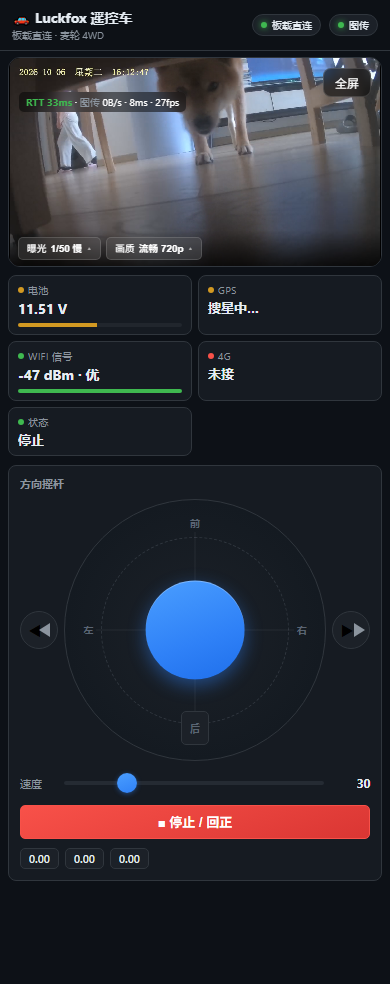
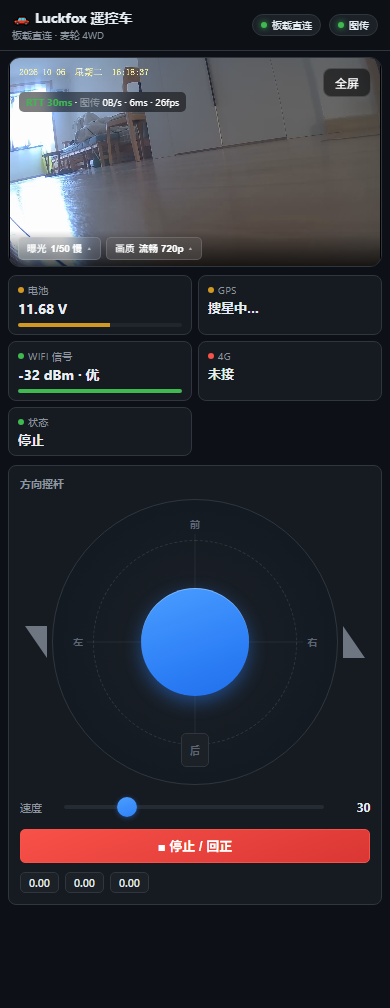
fix: 原地转按钮改成真正的直角三角 (左右镜像, 贴圆盘不占地方)
问题
* 之前的三角按钮是**等腰三角** (宽度中间最宽), 而且装在一个圆形按钮里,
  左右各占一个方框 -> 占地方, 手机上不好按
* 用户指出: 要"直角三角, 左右对称"

修复 (board/app/index.html)
* CSS border 画三角: **只留一条透明边** 才得到直角三角
  两条都留 -> 等腰三角 (之前就是这么写的, 错的)
  现在: 竖直直角边贴圆盘外缘, 尖朝外, 左右严格镜像
* 去掉圆形按钮外框和残留的 ◀ ▶ 字符 (字符会盖住画的三角, 干扰渲染)
* 按钮改成纯触摸热区 (36x64 / 手机 32x60), 视觉上只有三角
* 间距: 桌面 2px, 手机 0px (紧贴圆盘, 零横向溢出)

验证 (逐像素, 不靠推理)
* ASCII 位图确认左右三角形状 + 方向正确 (见提交说明下的实测输出)
* 左: 竖直边在右(贴盘), 尖朝左   右: 镜像, 竖直边在左(贴盘), 尖朝右
* getComputedStyle 确认 border 组合:
  左 T/B/L/R = 0/32/0/22   右 = 32/0/22/0  (严格镜像)
* 功能回归: 按住右三角 w->0.70, 左三角 w->-0.70, 松开归零,
  指针移出即停, 停止按钮清转向 —— 全部通过
* 390px 视口: 圆盘 286px + 左右按钮, 总宽 350/390, 无溢出

文档
* README 更新按钮说明, 追加"border 画三角形"这个坑
* 更新界面截图

diff --git a/board/app/index.html b/board/app/index.html
@@ -176,23 +176,78 @@ main{max-width:1100px;margin:0 auto;padding:10px 12px 24px}
   text-transform:uppercase;letter-spacing:.5px}
 
 /* 转盘 + 左右两侧的原地转按钮。
- * 用 flex 把两个三角贴在圆盘左右, 与圆盘**垂直居中**对齐。
- * 三角用 CSS border 画 (纯字符 ▲ 在不同字体下大小/基线不一致)。 */
-#stickWrap{display:flex;align-items:center;justify-content:center;gap:10px}
-.rotb{width:44px;height:44px;flex:none;border-radius:50%;cursor:pointer;
-  border:1px solid var(--line);background:var(--card2);padding:0;
+ *
+ * 形状要求 (用户指定): **直角三角, 左右镜像对称**。
+ *
+ *     ◀▏  ( O )  ▕▶
+ *     左          右
+ *
+ *   左三角: 直角边(竖直)贴圆盘, 尖朝**左**
+ *   右三角: 直角边(竖直)贴圆盘, 尖朝**右**
+ *   两者是严格的镜像 —— 看起来就像圆盘左右各长出一个"播放键"。
+ * 这样三角是"贴"在圆盘外缘的, 不占额外方框, 手机上左右拇指正好
+ * 落在圆盘两侧, 手掌不用移动就能按到。
+ *
+ * ---- border 画三角的原理 (这里踩过坑, 实测记录) ----
+ * 宽高都是 0 的盒子, 四条 border 各自斜切成三角形。
+ *
+ * ⚠ 想让实色部分成为**直角三角**, 必须**只留一条透明边**:
+ *     border-top:36px transparent  +  border-right:24px solid
+ *         -> 直角在右下角, 尖朝左, 斜边从左下到右上  ✓ 直角三角
+ *     若写成 border-top:18px + border-bottom:18px 都透明
+ *         -> 得到的是**等腰三角** (尖在左中, 上下对称)  ✗ 不是我想要的
+ *
+ * 一开始我就是写成了两条透明边, 渲染出来是等腰三角, 被用户指出来了。
+ * 现在这份是**用真实浏览器逐像素量过**的 (见 _tritest.js):
+ *   变体 B/C = 直角三角 (宽度从 24 单调收到 1, 最宽行贴在圆盘那侧)
+ *   变体 A/D = 等腰三角 (宽度 1->24->1, 中间最宽)
+ */
+#stickWrap{display:flex;align-items:center;justify-content:center;gap:0}
+.rotb{flex:none;cursor:pointer;padding:0;border:0;background:none;
   display:flex;align-items:center;justify-content:center;
+  /* 触摸热区 (透明), 比三角形本身大一圈, 手机上好按 */
+  width:36px;height:64px;
   touch-action:none;-webkit-tap-highlight-color:transparent;
-  transition:background .12s,transform .06s,border-color .12s}
+  border-radius:var(--r-sm);
+  transition:background .12s}
+/* 直角三角本体 (伪元素)。宽=0 高=0, 全靠 border 撑出形状。
+ *
+ * 目标形状 (实测逐像素调出来的):
+ *
+ *     左 ◀            右 ▶
+ *     ┌              ┐
+ *     │╲             ╱│
+ *     │ ╲           ╱ │      <- 竖直直角边贴圆盘
+ *     │  ╲         ╱  │
+ *     └              ┘
+ *     竖直边在贴圆盘那侧, 尖朝外 —— 像播放器的"快退/快进"。
+ *
+ * 关键: 只想得到**直角三角**, 就必须**只留一条透明边**。
+ *   border-left(或 right) 为 0 的那条边决定哪一侧是"竖直直角边"。
+ * 两条都留 -> 等腰三角 (错了, 一开始就是这么写的)。
+ *
+ * 四个方向对应关系 (实测):
+ *   透明 top    + 实色 right  ->  ╲│  竖直边在右, 尖在左上
+ *   透明 bottom + 实色 right  ->  ╱│  竖直边在右, 尖在左下   <-- 左边用这个
+ *   透明 top    + 实色 left   ->  │╱  竖直边在左, 尖在右上
+ *   透明 bottom + 实色 left   ->  │╲  竖直边在左, 尖在右下   <-- 右边用这个
+ *
+ * 用**上下各半**的方式不好, 所以这里用"透明边占满高度, 另一条竖直边为 0",
+ * 这样得到的就是标准的左右指向直角三角。
+ */
 .rotb:after{content:"";display:block;width:0;height:0;
-  border-top:7px solid transparent;border-bottom:7px solid transparent}
-.rotb.l:after{border-right:11px solid #8b949e;margin-left:-3px}
-.rotb.r:after{border-left:11px solid #8b949e;margin-right:-3px}
-.rotb:hover{background:#262d36}
-/* 按住时: 变蓝 + 三角变白, 明确反馈"正在原地转" */
-.rotb.on{background:rgba(47,129,247,.9);border-color:#2f81f7;transform:scale(.95)}
-.rotb.on.l:after{border-right-color:#fff}
-.rotb.on.r:after{border-left-color:#fff}
+  transition:border-color .12s}
+/* 左: 竖直直角边贴圆盘(在右侧), 尖朝左 */
+.rotb.l:after{border-top:0;border-bottom:32px solid transparent;
+  border-left:0;border-right:22px solid #6e7681}
+/* 右: 与左严格镜像 (竖直直角边在左, 尖朝右) */
+.rotb.r:after{border-top:32px solid transparent;border-bottom:0;
+  border-right:0;border-left:22px solid #6e7681}
+.rotb:hover{background:rgba(255,255,255,.07)}
+/* 按住时: 三角变亮蓝, 明确反馈"正在原地转" */
+.rotb.on{background:rgba(47,129,247,.18)}
+.rotb.on.l:after{border-right-color:#4a9eff}
+.rotb.on.r:after{border-left-color:#4a9eff}
 
 #stick{position:relative;width:100%;max-width:300px;aspect-ratio:1;margin:0 auto;
   border-radius:50%;
@@ -264,14 +319,14 @@ input[type=range]::-moz-range-thumb{width:15px;height:15px;border:0;border-radiu
   input[type=range]::-webkit-slider-thumb{width:20px;height:20px;margin-top:-8px}
   /* 小屏上把整个转盘装配收窄, 保证 "三角 + 圆盘 + 三角" 不溢出。
      圆盘是 aspect-ratio:1 的正方形, 所以用 flex:1 + max-width 让它自适应。 */
-  #stickWrap{gap:6px}
+  #stickWrap{gap:0}
   #stick{flex:1;min-width:0;max-width:none}
-  .rotb{width:38px;height:38px}
+  /* 手机上触摸热区给足 (≥44px 高), 三角形本体大小不变 */
+  .rotb{width:32px;height:60px}
 }
 /* 窄到 360px 以下再收一档 */
 @media(max-width:380px){
-  #stickWrap{gap:4px}
-  .rotb{width:34px;height:34px}
+  .rotb{width:28px;height:56px}
 }
 
 #dirbar{display:flex;align-items:center;gap:6px;margin-top:9px;font-size:11px;
@@ -368,7 +423,7 @@ kbd{background:#21262d;border:1px solid var(--line);border-bottom-width:2px;
       <!-- 左右原地转: 两个三角按钮贴在转盘**左右两侧** (原来是下面的滑条)。
            按住持续转, 松开回正 —— 见 rotBtnDown/rotBtnUp。 -->
       <div id="stickWrap">
-        <button class="rotb l" id="rotL" title="按住原地左转 (或按 Q)">◀</button>
+        <button class="rotb l" id="rotL" title="按住原地左转 (或按 Q)" aria-label="原地左转"></button>
         <div id="stick">
           <div class="ring"></div>
           <div class="cross"></div>
@@ -376,7 +431,7 @@ kbd{background:#21262d;border:1px solid var(--line);border-bottom-width:2px;
           <div class="lbl l">左</div><div class="lbl r">右</div>
           <div id="knob"></div>
         </div>
-        <button class="rotb r" id="rotR" title="按住原地右转 (或按 E)">▶</button>
+        <button class="rotb r" id="rotR" title="按住原地右转 (或按 E)" aria-label="原地右转"></button>
       </div>
 
       <div class="row">

diff --git a/README.md b/README.md
@@ -93,11 +93,13 @@ docs/                   文档与截图
 
 面板上只留**一个**滑条（速度）和**一个**大按钮：
 
-* **原地转**：贴在转盘**左右两侧的两个三角按钮**。
+* **原地转**：贴在转盘**左右两侧的两个直角三角按钮**（像播放器的快退/快进）。
+  竖直直角边**贴住圆盘外缘**、尖朝外，左右严格镜像 —— 不占额外的方框空间，
+  手机左右拇指正好落在圆盘两侧，手掌不用移动就能按到（间距 0~2px，零溢出）。
   原来"旋转"是根滑条 —— 开车时得先拖到某个位置再保持住，单手很难做到。
   改成**按住三角就转、一松手立刻回正**，既是手感改进，也是天然的失效保护：
   手一松车就不转了。转向量在约 700ms 内平滑推到 ±70%（避免瞬间满舵把车甩出去），
-  按住期间按钮变蓝。
+  按住期间三角变蓝。
 * **「■ 停止 / 回正」是一个按钮，两件事一起做**。原来是"停止 / 回正摇杆 / 刹车"
   三个按钮，但开车时"停"和"回正"永远是同一个动作（急停之后摇杆当然要回中），
   分成两个按钮只会让人在慌乱时点错。这一个按钮同时：归零运动矢量 →
@@ -111,6 +113,10 @@ docs/                   文档与截图
 >    `pointerleave` 兜底。
 > 2. **停止按钮必须清空键盘按键状态**。否则"按住 `W` 的同时点停止"，
 >    车会**立刻又走起来**（`keys` 里还留着 `w`，下一次 `keyApply` 又把它推回去）。
+> 3. **CSS `border` 画三角形时，两条透明边会得到等腰三角**。想要**直角三角**，
+>    必须只留一条透明边（另一条竖直边为 0）——这样竖直直角边才是完整的一条边。
+>    一开始两条都留，渲染出来是等腰三角（宽度中间最宽），被用户一眼看出来。
+>    四个方向对应关系写在 `board/app/index.html` 的 `.rotb` 注释里。
 
 > **曝光/画质为什么也是"档位"而不是滑条**：ISP 参数在 rkipc 启动时就被固化，
 > 改任何摄像头参数都必须**重启 rkipc（约 20 秒画面中断）**——这是硬限制。
